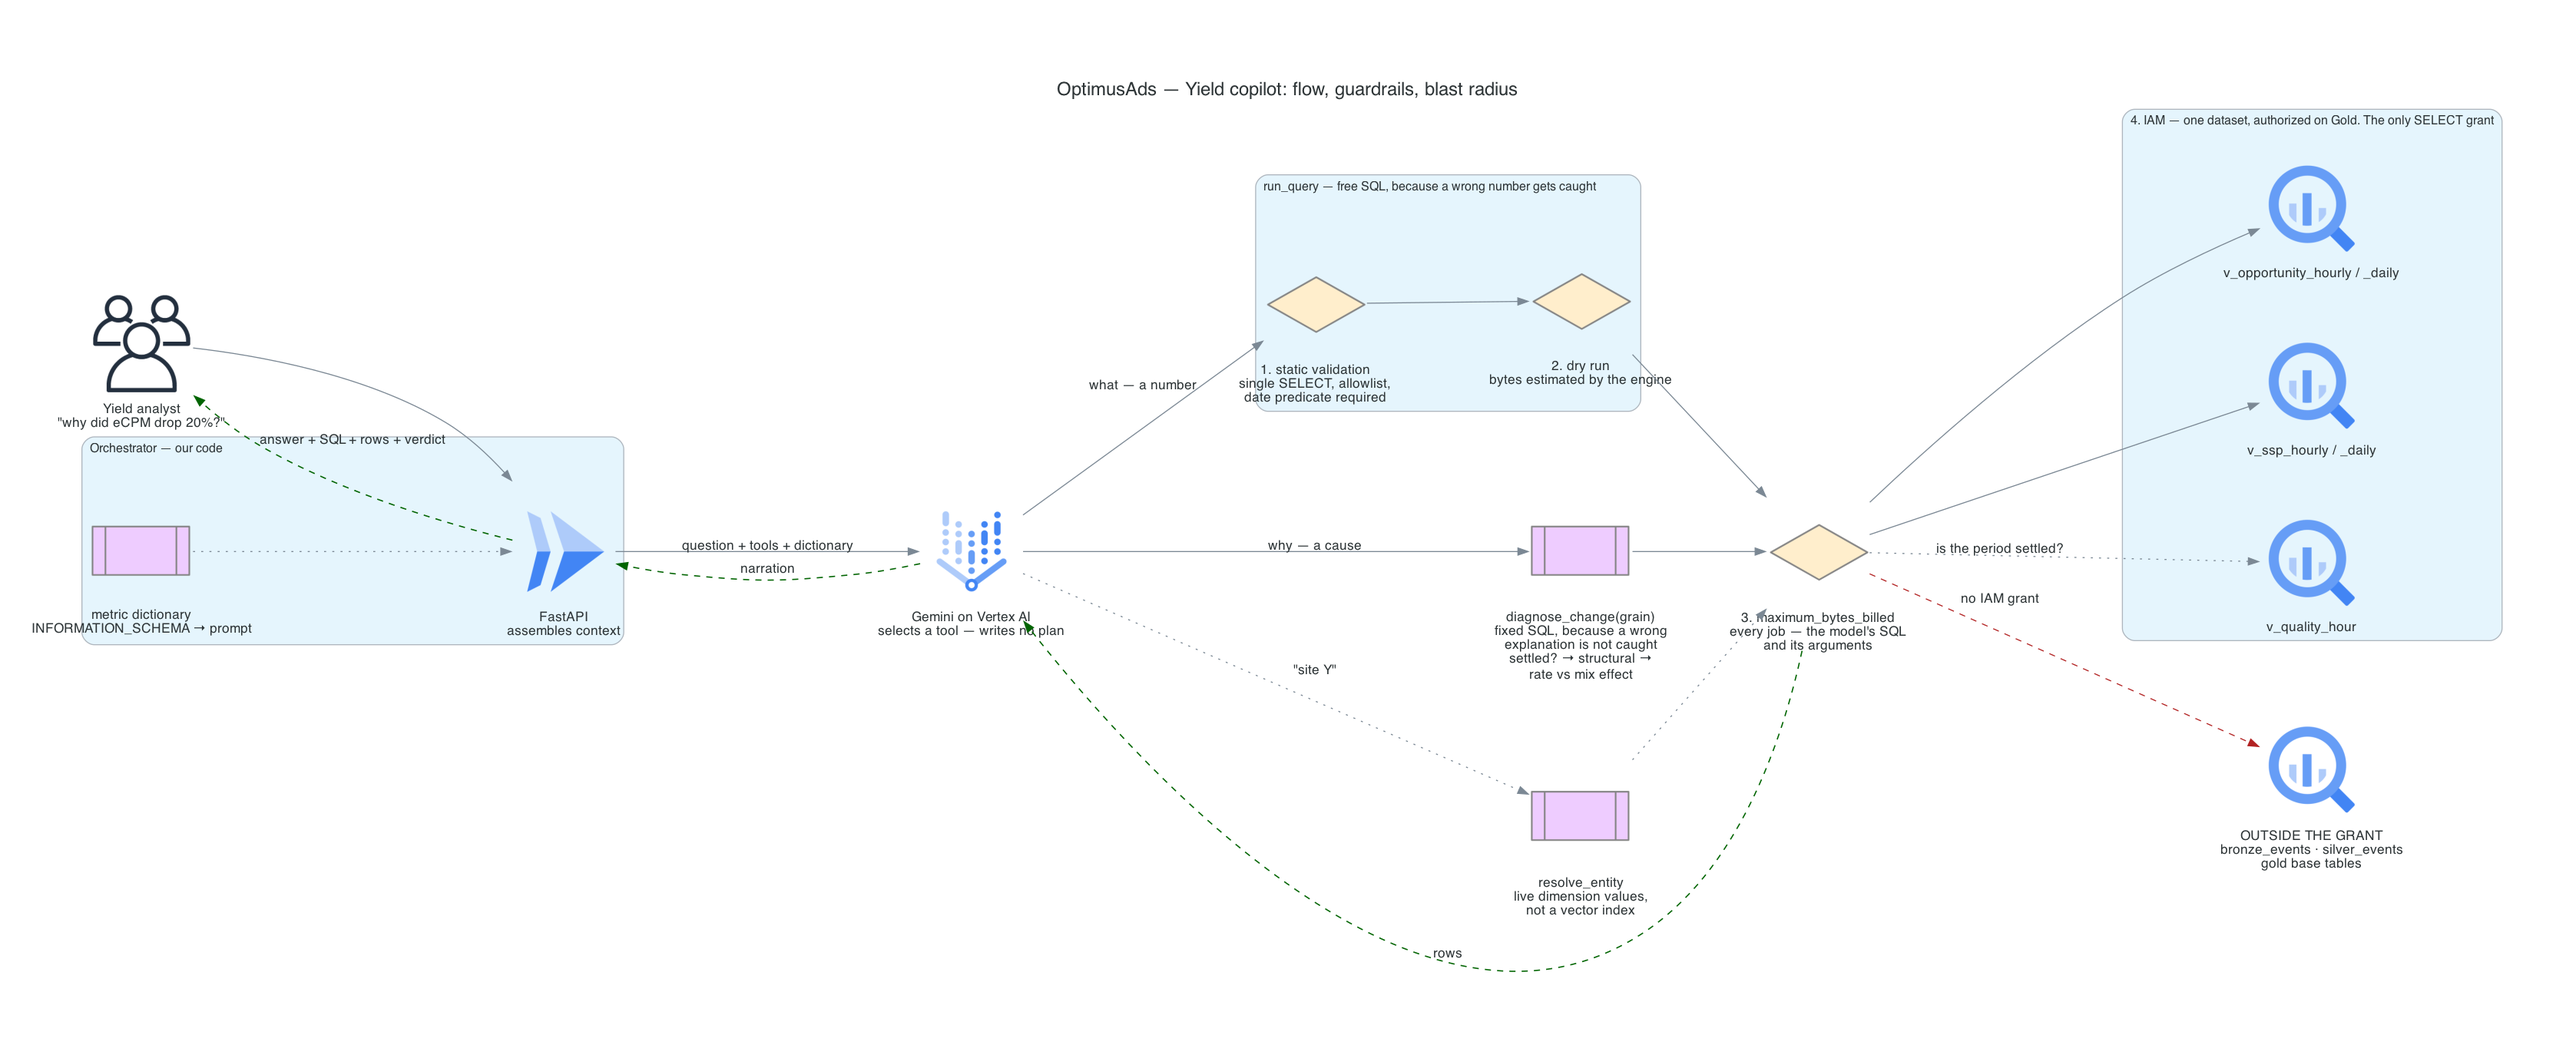
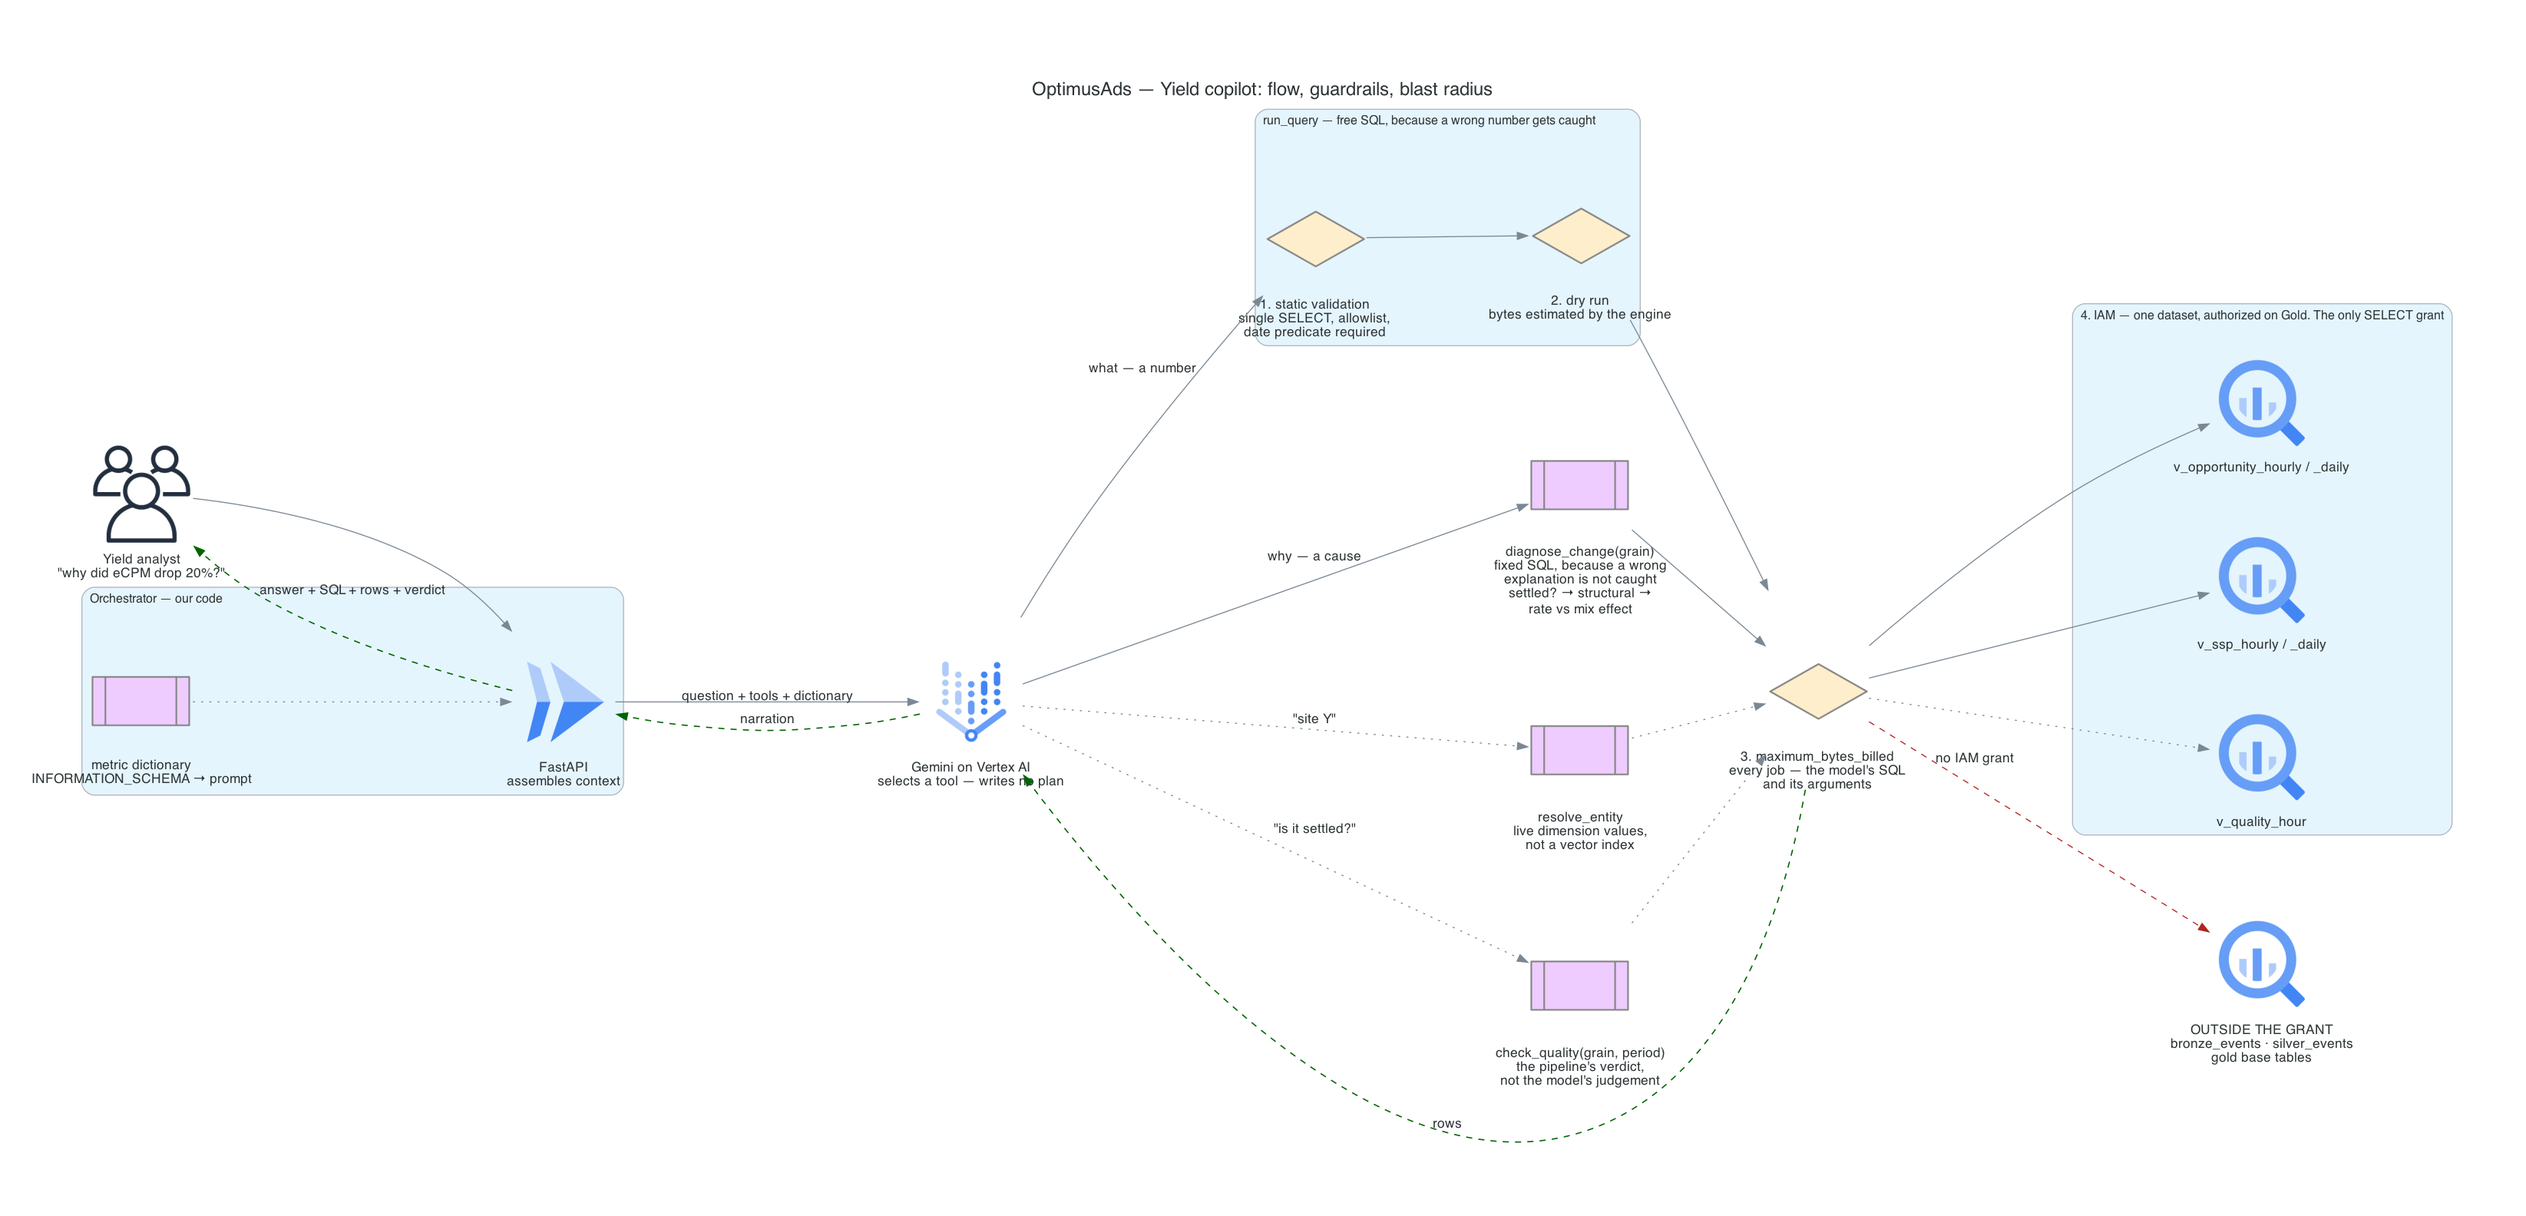
Draw check_quality as the fourth tool path
The tool table lists four tools and the flow page says four
FunctionDeclarations, but the picture drew three paths out of the model.
check_quality now sits beside diagnose_change and resolve_entity and
converges on the same ceiling, so all four paths land on one execution
seam and the denial below reads as identity-wide.

The edge into v_quality_hour drops its label: the tool node carries the
question now, and the picture was asking it twice.

diff --git a/diagrams_src/agent.py b/diagrams_src/agent.py
@@ -67,6 +67,12 @@ with Diagram(
 
     resolve = PredefinedProcess("resolve_entity\nlive dimension values,\nnot a vector index")
 
+    # The fourth tool. It reads a verdict the pipeline published rather than asking the model
+    # to judge its own input, which is why it is a tool call and not a paragraph of prompt.
+    check = PredefinedProcess(
+        "check_quality(grain, period)\nthe pipeline's verdict,\nnot the model's judgement"
+    )
+
     # Layers 1 and 2 parse model-written SQL, so they are run_query-only. The ceiling is not:
     # a routine we wrote still runs over a period the model chose. Every path converges here,
     # which is also what makes the denial below identity-wide rather than run_query's alone.
@@ -90,15 +96,17 @@ with Diagram(
     v1 >> v2 >> v3
     model >> Edge(label="why — a cause") >> diagnose
     model >> Edge(label='"site Y"', style="dotted") >> resolve
+    model >> Edge(label='"is it settled?"', style="dotted") >> check
 
-    # Both tool paths converge on the ceiling, so the picture shows what the prose claims:
+    # Every tool path converges on the ceiling, so the picture shows what the prose claims:
     # one execution seam, one grant, and the same views underneath either kind of SQL.
     diagnose >> v3
     resolve >> Edge(style="dotted") >> v3
+    check >> Edge(style="dotted") >> v3
 
     v3 >> v_opp
     v3 >> v_ssp
-    v3 >> Edge(label="is the period settled?", style="dotted") >> quality
+    v3 >> Edge(style="dotted") >> quality
 
     v3 >> DENIED >> raw
 
